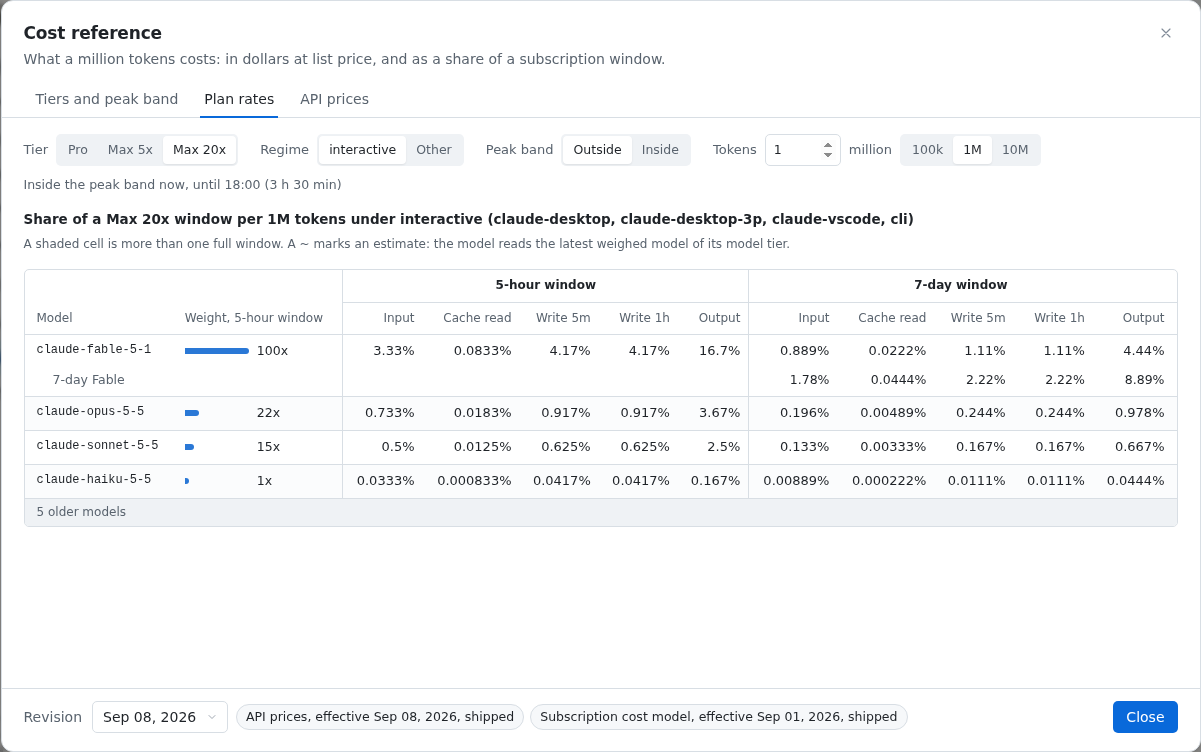
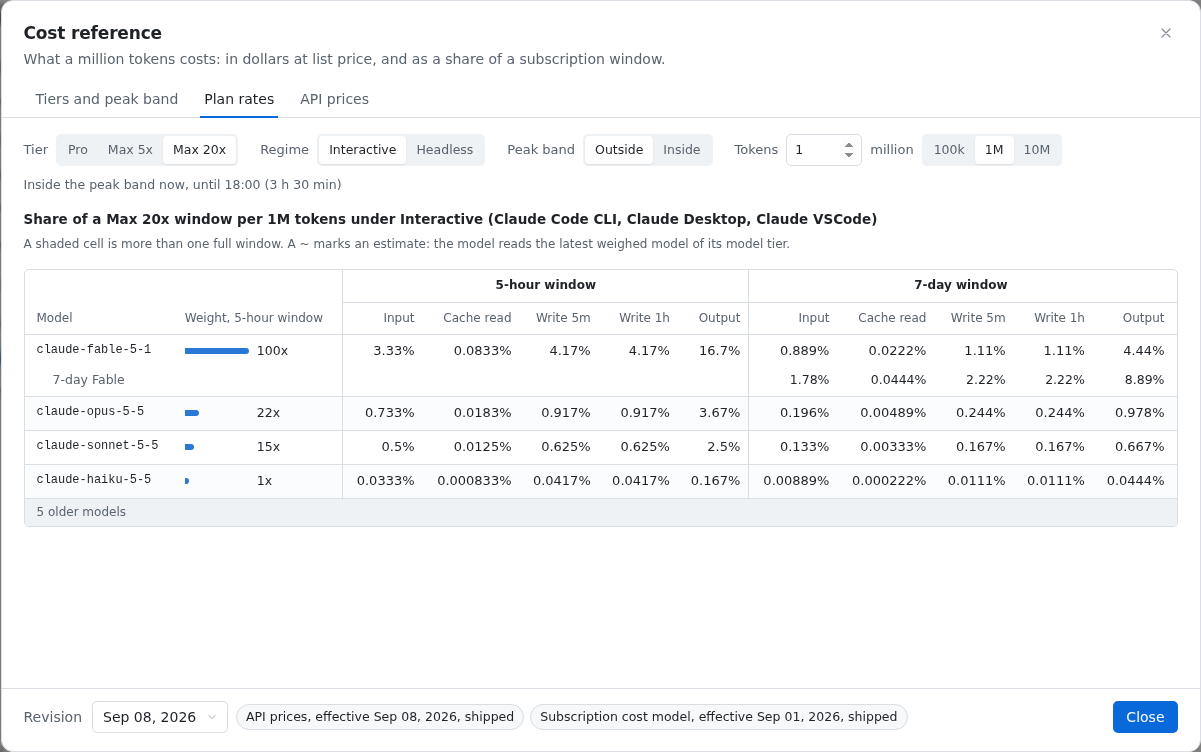
Name the cost reference's regimes by the clients they price
The console maps the cost model's regime keys and entrypoint tokens
to headline words and client names, and a key or token the map lacks
reads raw. Windows by tier draws the Interactive regime's rows first
and the base rows under a Headless headline, the Peak band card says
which traffic the band applies to, and Plan rates' Regime control and
caption read the same words.

The smoke pins the shipped words where it pinned the raw key, and the
two week subtitles on the test tables pin the raw-key fallback. The
Plan rates screenshots are retaken.

diff --git a/web/src/components/costs/WindowsByTier.tsx b/web/src/components/costs/WindowsByTier.tsx
@@ -1,7 +1,7 @@
 import { useState } from 'react';
 import type { SubscriptionCosts } from '@/api/types';
 import { Card, Segmented } from '@/components/ui/primitives';
-import { anchorTier, fullWindowsAWeek, regimeNames, smallestTier, tierCapacity, withRegime, type CostWindow } from '@/lib/costs';
+import { anchorTier, fullWindowsAWeek, regimeNames, regimeTitle, regimeWord, smallestTier, tierCapacity, withRegime, type CostWindow } from '@/lib/costs';
 import { fmtInt, fmtShare } from '@/lib/format';
 import { planLabel } from '@/lib/quota';
 
@@ -33,8 +33,8 @@ export function BandSwitch({ inside, onChange, unreachable = null }: { inside: b
   );
 }
 
-/** Each sized tier's windows against the smallest tier's, and its week counted in full 5-hour windows, then every
- *  tier each regime names under a row naming it and its entrypoints. */
+/** Each regime's tiers first under a row naming it and the clients it prices, then every sized tier's windows against
+ *  the smallest tier's under the Headless row, each tier's week counted in full 5-hour windows. */
 export function WindowsByTier({ costs }: { costs: SubscriptionCosts }) {
   const [inside, setInside] = useState(false);
   const tiers = Object.keys(costs.capacity).filter((tier) => WINDOWS.some((w) => tierCapacity(costs, tier, w.key) !== null));
@@ -64,13 +64,13 @@ export function WindowsByTier({ costs }: { costs: SubscriptionCosts }) {
     }
     const factor = inside ? model.peak.capacityFactor[w.factor] : 1;
     const held = capacity * factor;
-    const read = `${label} ${w.short} window${regime === null ? '' : ` under ${regime}`}${inside ? ' inside the peak band' : ''}: ${figure(multiple)}x a ${planLabel(base)} one, ${fmtShare(held / max)} of the largest`;
+    const read = `${label} ${w.short} window${regime === null ? '' : ` under ${regimeWord(regime)}`}${inside ? ' inside the peak band' : ''}: ${figure(multiple)}x a ${planLabel(base)} one, ${fmtShare(held / max)} of the largest`;
     const regimeAnchor = tierCapacity(model, anchor, w.key);
     const baseAnchor = tierCapacity(costs, anchor, w.key);
     const title =
       regime === null || regimeAnchor === null || baseAnchor === null
         ? read
-        : `${read}. One percent of the ${planLabel(anchor)} ${w.short} window is ${fmtInt(regimeAnchor / 100)} units for a request under ${regime} and ${fmtInt(baseAnchor / 100)} for any other.`;
+        : `${read}. One percent of the ${planLabel(anchor)} ${w.short} window is ${fmtInt(regimeAnchor / 100)} units for a request under ${regimeWord(regime)} and ${fmtInt(baseAnchor / 100)} under ${regimeWord(null)}.`;
     return (
       <td key={w.key}>
         <div className="cost-ref__barcell" title={title}>
@@ -119,17 +119,16 @@ export function WindowsByTier({ costs }: { costs: SubscriptionCosts }) {
       {weekCell(model, tier)}
     </tr>
   );
+  const groupRow = (name: string | null) => (alt: string | undefined) => (
+    <tr key={`group ${name ?? 'base'}`} className={['cost-ref__group', alt].filter(Boolean).join(' ')}>
+      <td colSpan={WINDOWS.length + 2}>{regimeTitle(costs, name)}</td>
+    </tr>
+  );
   // The stripes run on through the group rows, which count as rows of their own.
   const rows = [
+    ...regimes.flatMap(({ model, name, tiers: named }) => [groupRow(name), ...named.map((tier) => tierRow(model, name, tier))]),
+    groupRow(null),
     ...tiers.map((tier) => tierRow(costs, null, tier)),
-    ...regimes.flatMap(({ model, name, tiers: named }) => [
-      (alt: string | undefined) => (
-        <tr key={`group ${name}`} className={['cost-ref__group', alt].filter(Boolean).join(' ')}>
-          <td colSpan={WINDOWS.length + 2}>{`${name}: ${costs.regimes[name].entrypoints.join(', ')}`}</td>
-        </tr>
-      ),
-      ...named.map((tier) => tierRow(model, name, tier)),
-    ]),
   ];
   return (
     <Card title="Windows by tier" subtitle={`How much each tier's windows hold, against ${smallest === null ? 'the smallest' : planLabel(smallest)}`} actions={<BandSwitch inside={inside} onChange={setInside} />}>

diff --git a/web/src/lib/costs.ts b/web/src/lib/costs.ts
@@ -13,7 +13,8 @@ export interface Usage { cacheRead: number; cacheWrite1h: number; cacheWrite5m: 
 
 const TOKEN_TYPES: TokenType[] = ['cacheRead', 'cacheWrite1h', 'cacheWrite5m', 'input', 'output'];
 
-// A local copy rather than `lib/analytics`'s, which reads `tierRow` from this module: the two would import each other.
+// A local copy rather than `lib/analytics`'s, which reads `tierCapacity` from this module: the two would import each
+// other.
 const own = (map: object, key: string): boolean => Object.prototype.hasOwnProperty.call(map, key);
 
 export const anchorTier = (costs: SubscriptionCosts): string => costs.unit.definedBy.tier;
@@ -41,6 +42,37 @@ export const pricedWindow = (costs: SubscriptionCosts, window: string): { diviso
 
 /** The regimes' names in the file's order. */
 export const regimeNames = (costs: SubscriptionCosts): string[] => Object.keys(costs.regimes);
+
+// The map is the console's: the cost model file keeps its keys and tokens, and a key or token the map lacks reads raw,
+// so a regime the file adds later draws with no code change.
+const REGIME_WORD: Readonly<Record<string, string>> = { interactive: 'Interactive' };
+const CLIENT_NAME: Readonly<Record<string, string>> = { 'claude-desktop': 'Claude Desktop', 'claude-desktop-3p': 'Claude Desktop', 'claude-vscode': 'Claude VSCode', cli: 'Claude Code CLI' };
+const BASE_WORD = 'Headless';
+const BASE_CLIENTS = 'Claude Code CLI headless mode, the Agent SDK, Claude in Slack, etc.';
+
+/** "a", "a and b", "a, b and c". */
+const listWords = (words: string[]): string => (words.length < 2 ? words.join('') : `${words.slice(0, -1).join(', ')} and ${words[words.length - 1]}`);
+
+/** The headline word of a regime, the raw key for one the map lacks, and "Headless" for the base (null). */
+export const regimeWord = (name: string | null): string => (name === null ? BASE_WORD : own(REGIME_WORD, name) ? REGIME_WORD[name] : name);
+
+/** The clients a regime prices: its entrypoints' client names in alphabetical order, each named once, a token the map
+ *  lacks read raw. The base's fixed list for null. */
+export const regimeClients = (costs: SubscriptionCosts, name: string | null): string =>
+  name === null ? BASE_CLIENTS : [...new Set((costs.regimes[name]?.entrypoints ?? []).map((t) => (own(CLIENT_NAME, t) ? CLIENT_NAME[t] : t)))].sort().join(', ');
+
+/** "Interactive (Claude Code CLI, Claude Desktop, Claude VSCode)": a headline row's and the caption's text. */
+export const regimeTitle = (costs: SubscriptionCosts, name: string | null): string => `${regimeWord(name)} (${regimeClients(costs, name)})`;
+
+/** The Peak band card's sentence after the week word. A regime at a 5-hour factor of 1 while the base's is below 1
+ *  holds its window whole inside the band, so the band applies to the base and to the rest alone. */
+export const bandSentence = (costs: SubscriptionCosts): string => {
+  const base = costs.peak.capacityFactor.fiveHour;
+  const spared = regimeNames(costs).filter((name) => costs.regimes[name].peakCapacityFactor.fiveHour === 1 && base !== 1);
+  if (spared.length === 0) return 'A request completing inside the band spends more of its 5-hour window.';
+  const applies = [BASE_WORD, ...regimeNames(costs).filter((name) => !spared.includes(name)).map(regimeWord)];
+  return `The band applies to ${listWords(applies)} traffic only: a request completing inside it spends more of its 5-hour window. ${listWords(spared.map(regimeWord))} sessions hold the full window at every hour.`;
+};
 
 /** The regime listing the entrypoint, null for null or an entrypoint no regime lists. */
 export const regimeOf = (costs: SubscriptionCosts, entrypoint: string | null): string | null =>

diff --git a/web/src/components/costs/PlanRates.tsx b/web/src/components/costs/PlanRates.tsx
@@ -1,7 +1,7 @@
 import { useState } from 'react';
 import type { ModelPrice, SubscriptionCosts } from '@/api/types';
 import { Segmented } from '@/components/ui/primitives';
-import { anchorTier, bandNow, latestWeighted, modelTierOf, modelWeeks, regimeNames, shareIn, tierCapacity, tierGroups, unreachableBand, weightedWindows, weightOf, weightOrFallback, withRegime, type CostWindow, type TokenType, type Usage } from '@/lib/costs';
+import { anchorTier, bandNow, latestWeighted, modelTierOf, modelWeeks, regimeNames, regimeTitle, regimeWord, shareIn, tierCapacity, tierGroups, unreachableBand, weightedWindows, weightOf, weightOrFallback, withRegime, type CostWindow, type TokenType, type Usage } from '@/lib/costs';
 import { ESTIMATED_TITLE, fmtShare, undatedModel, upperFirst, withEstimate } from '@/lib/format';
 import { planLabel } from '@/lib/quota';
 import { nowLine } from './PeakBand';
@@ -51,7 +51,7 @@ export function PlanRates({ costs, now, olderOpen, onToggleOlder, prices }: { co
   const [tier, setTier] = useState(() => anchorTier(costs));
   const regimes = regimeNames(costs);
   // The interactive regime first where the model names it, since the interactive client is the traffic an operator
-  // runs. '' is Other, the base regime.
+  // runs. '' is the base, drawn as Headless.
   const [regime, setRegime] = useState(() => (regimes.includes('interactive') ? 'interactive' : ''));
   // A revision without the chosen regime reads the base, so the control and the caption follow it.
   const shownRegime = regimes.includes(regime) ? regime : '';
@@ -200,7 +200,7 @@ export function PlanRates({ costs, now, olderOpen, onToggleOlder, prices }: { co
         {regimes.length > 0 && (
           <span className="cost-ref__control">
             <span>Regime</span>
-            <Segmented ariaLabel="Regime" value={shownRegime} onChange={setRegime} options={[...regimes.map((r) => ({ label: r, value: r })), { label: 'Other', value: '' }]} />
+            <Segmented ariaLabel="Regime" value={shownRegime} onChange={setRegime} options={[...regimes.map((r) => ({ label: regimeWord(r), value: r })), { label: regimeWord(null), value: '' }]} />
           </span>
         )}
         <BandSwitch inside={chosen} onChange={setInside} unreachable={unreachable} />
@@ -234,7 +234,7 @@ export function PlanRates({ costs, now, olderOpen, onToggleOlder, prices }: { co
       </div>
       <div className="cost-ref__caption">
         <b>
-          Share of a {tierName} window per {fmtTokens(tokens)} tokens{shownRegime ? ` under ${shownRegime} (${costs.regimes[shownRegime].entrypoints.join(', ')})` : ''}
+          Share of a {tierName} window per {fmtTokens(tokens)} tokens under {regimeTitle(costs, shownRegime || null)}
           {chosen ? ', a request completing inside the peak band' : ''}
         </b>
         <span className="muted">A shaded cell is more than one full window. A ~ marks an estimate: the model reads the latest weighed model of its model tier.</span>

diff --git a/web/src/components/costs/PeakBand.tsx b/web/src/components/costs/PeakBand.tsx
@@ -2,7 +2,7 @@ import { Fragment, useMemo } from 'react';
 import type { SubscriptionCosts } from '@/api/types';
 import { useFormatVersion } from '@/app/settings';
 import { Card } from '@/components/ui/primitives';
-import { bandCaption, bandNow, bandWeek, nextLocalChange, regimeNames, zoneCity } from '@/lib/costs';
+import { bandCaption, bandNow, bandSentence, bandWeek, nextLocalChange, regimeNames, regimeWord, zoneCity } from '@/lib/costs';
 import { fmtShortTime, getTimeFormat } from '@/lib/format';
 
 /** The browser's zone, the one every time the console shows reads in. */
@@ -74,17 +74,16 @@ export function PeakBand({ costs, now }: { costs: SubscriptionCosts; now: number
   const factors = [
     ...FACTOR_WINDOWS.map(({ key, label }) => ({ factor: costs.peak.capacityFactor[key], label })),
     ...regimeNames(costs).flatMap((name) =>
-      FACTOR_WINDOWS.filter(({ key }) => costs.regimes[name].peakCapacityFactor[key] !== costs.peak.capacityFactor[key]).map(({ key, label }) => ({ factor: costs.regimes[name].peakCapacityFactor[key], label: `${label}, ${name}` })),
+      FACTOR_WINDOWS.filter(({ key }) => costs.regimes[name].peakCapacityFactor[key] !== costs.peak.capacityFactor[key]).map(({ key, label }) => ({ factor: costs.regimes[name].peakCapacityFactor[key], label: `${label}, ${regimeWord(name)}` })),
     ),
   ];
-  const holdsWhole = regimeNames(costs).some((name) => costs.regimes[name].peakCapacityFactor.fiveHour === 1 && fiveHour !== 1);
   const state = bandNow(costs, now);
   // A zone this browser cannot read gives no hours here, so the card draws no grid, no swatch and no change.
   const unresolved = 'unresolved' in state;
   return (
     <Card
       title="Peak band"
-      subtitle={`${week.some((day) => day.today) ? 'This week.' : 'Next week.'} A request completing inside the band spends more of its 5-hour window${holdsWhole ? ', except under a regime that holds 100% inside it' : ''}.`}
+      subtitle={`${week.some((day) => day.today) ? 'This week.' : 'Next week.'} ${bandSentence(costs)}`}
     >
       <div className="cost-ref__band-side">
         <div>

diff --git a/web/smoke/entry.tsx b/web/smoke/entry.tsx
@@ -40,7 +40,7 @@ export { Expert, Field, GroupedDialog, GroupLink, Input, PageLink, Pill, Switche
 export { GuardrailDialog } from '@/pages/GuardrailsPage';
 // The figures and the model form a Dashboard check computes its expectation from, so the check and the page read one
 // derivation; the cost reference's and the About card's checks read theirs the same way.
-export { anchorTier, bandFactor, bandRuns, fullWindowsAWeek, inBand, nextLocalChange, ratesOf, regimeNames, revisionAt, shareOf, smallestTier, tierCapacity, tierGroups, tierOrder, weightOf, weightOrFallback, windowMultiple, withRegime } from '@/lib/costs';
+export { anchorTier, bandFactor, bandRuns, bandSentence, fullWindowsAWeek, inBand, nextLocalChange, ratesOf, regimeClients, regimeNames, regimeTitle, regimeWord, revisionAt, shareOf, smallestTier, tierCapacity, tierGroups, tierOrder, weightOf, weightOrFallback, windowMultiple, withRegime } from '@/lib/costs';
 // The Cache miss reasons, their labels and short words in the page's order, so the filter and Analytics table checks
 // read the words the pages draw.
 export { CACHE_MISS_LABEL, CACHE_MISS_REASONS, CACHE_MISS_SHORT, missLabel, missShort } from '@/lib/cache';

diff --git a/web/e2e/README.md b/web/e2e/README.md
@@ -288,35 +288,38 @@ row's detail and the Routing log's open panel on their parent's tone, the open r
 Requests row on `--surface-2` under the pointer and on `--accent-soft` once selected on every cell, and the pool
 dialog's form tables plain), the scroll lock behind a modal dialog (in the mock pass, on the Pools page in a browser
 that shows scrollbars: a wheel over the page moves it, a wheel over the open dialog's backdrop leaves the page's scroll
-and its content box where they stood, and the close returns the page to the scroll it had), the cost reference, the
-session table's fit (inside the card at 1280 by 800 and 1440 by 900 with a slowed session's speed chip inside its
-Session cell under the id, and at 375 by 800 scrolling inside its wrap with Session at its 74 px floor and the page as
-wide as the window) and its columns (each fit column as wide as its content, the Session column the fill), the session
-id's width, the session row menu, the agent lines (at 1280 by 800 and 1440 by 900: the head's, main's and the longest
-subagent id's cells on one left edge per column within 1 px on the companion session that holds that id, every id whole
-on one line and every Account cell with its speed chip inside its box, each state badge inside its grid's scroll width
-at 1280 px and inside its visible box at 1440 px, where no grid scrolls, the widest grid's scroll and client widths
-recorded, the expanded table inside its wrap at both widths, the wrap's scroll and client widths recorded, and the first
-text line of the plain session's Model, Context and Effort cells on its session id's line, its top and its height), the
-Sessions bar's sort control and its order (on loads of its own that end on the bare view: the Sort button in the height,
-top edge, type size and weight of the Columns control beside it, reading "Sort: Created" on the bare address and "Sort:
-Last activity" under `?sort=activity`, the first five rows' session ids recorded under each), the fork badge's face
-(under the session id, in the row's badge face), the fork badges (inside their cell and whole), the session row's
-chevron (14 px square at the icon's 1.75 stroke), the Sessions tiles in error (mock pass, on loads of its own under the
-mock's sessions failure switch: the Sessions and Agents tiles a dash over "could not load" titled with the read's
-message, in the box, the value's line and the note's line of the Retained tile beside them, which keeps its figure, and
-the notice under the tiles naming the sessions), the released session's line and the Agents tile's hover, their words
-against the detail's type (mock pass, on a load of its own under the finished filter once the session list's shot is
-taken), the fork link, which is followed once the session list's shot is taken, the copy fallback (Copied on the
-Settings snippet with the clipboard API removed, on the Settings view's own load, and on a Key created dialog's secret
-in the mock pass, on a load of its own), the login screen's Stay logged in row (on both logins, the light theme's and
-the dark one's after the Log out: the secret field's, the row's, its box's, its label's and its hint's edges inside the
-card recorded, asserting nothing)). A check that opens an editor, a dialog or a row closes it again before the view's
-shot, and one that turns a column on turns it off again. The recent requests' table is fitted in the router pass and
-recorded in the mock pass, whose story's subscription rows read their 5-hour equivalent in the Cost cell, wider than the
-card leaves at 1280 by 800, so the table scrolls inside its wrap there, and its width under Window shares, where the
-cell keeps its two-line shares, is recorded beside it. The script exits non-zero with the list of failures when any of
-that does not hold.
+and its content box where they stood, and the close returns the page to the scroll it had), the cost reference, its
+headline words (mock pass, at 1280 by 800: the Windows by tier group rows reading the Interactive title, then the
+Headless title, the first one's cell in the type size of the table's first head and heavier, both weights recorded, the
+Peak band card's subtitle reading the shipped band sentence after "This week." and Plan rates' pressed Regime option
+reading Interactive, the caption recorded), the session table's fit (inside the card at 1280 by 800 and 1440 by 900 with
+a slowed session's speed chip inside its Session cell under the id, and at 375 by 800 scrolling inside its wrap with
+Session at its 74 px floor and the page as wide as the window) and its columns (each fit column as wide as its content,
+the Session column the fill), the session id's width, the session row menu, the agent lines (at 1280 by 800 and 1440 by
+900: the head's, main's and the longest subagent id's cells on one left edge per column within 1 px on the companion
+session that holds that id, every id whole on one line and every Account cell with its speed chip inside its box, each
+state badge inside its grid's scroll width at 1280 px and inside its visible box at 1440 px, where no grid scrolls, the
+widest grid's scroll and client widths recorded, the expanded table inside its wrap at both widths, the wrap's scroll
+and client widths recorded, and the first text line of the plain session's Model, Context and Effort cells on its
+session id's line, its top and its height), the Sessions bar's sort control and its order (on loads of its own that end
+on the bare view: the Sort button in the height, top edge, type size and weight of the Columns control beside it,
+reading "Sort: Created" on the bare address and "Sort: Last activity" under `?sort=activity`, the first five rows'
+session ids recorded under each), the fork badge's face (under the session id, in the row's badge face), the fork badges
+(inside their cell and whole), the session row's chevron (14 px square at the icon's 1.75 stroke), the Sessions tiles in
+error (mock pass, on loads of its own under the mock's sessions failure switch: the Sessions and Agents tiles a dash
+over "could not load" titled with the read's message, in the box, the value's line and the note's line of the Retained
+tile beside them, which keeps its figure, and the notice under the tiles naming the sessions), the released session's
+line and the Agents tile's hover, their words against the detail's type (mock pass, on a load of its own under the
+finished filter once the session list's shot is taken), the fork link, which is followed once the session list's shot is
+taken, the copy fallback (Copied on the Settings snippet with the clipboard API removed, on the Settings view's own
+load, and on a Key created dialog's secret in the mock pass, on a load of its own), the login screen's Stay logged in
+row (on both logins, the light theme's and the dark one's after the Log out: the secret field's, the row's, its box's,
+its label's and its hint's edges inside the card recorded, asserting nothing)). A check that opens an editor, a dialog
+or a row closes it again before the view's shot, and one that turns a column on turns it off again. The recent requests'
+table is fitted in the router pass and recorded in the mock pass, whose story's subscription rows read their 5-hour
+equivalent in the Cost cell, wider than the card leaves at 1280 by 800, so the table scrolls inside its wrap there, and
+its width under Window shares, where the cell keeps its two-line shares, is recorded beside it. The script exits
+non-zero with the list of failures when any of that does not hold.
 
 The screenshot directory has to lie outside the repository, which the script enforces against every worktree `git
 worktree list` reports, and against the tree holding the nearest `Cargo.toml` when git cannot answer.

diff --git a/docs/site/console.md b/docs/site/console.md
@@ -1114,23 +1114,28 @@ factor. Plan rates draws the share of a tier's 5-hour and 7-day window that a to
 model, for a request completing outside or inside the band, with a tier chooser (the anchor tier Max 20x first), the
 band control and a token field in millions with quick picks for 100k, 1M and 10M, a weight column per model, a Fable
 week row under a Fable model's 7-day group, and a warning tint on a cell past a full window. Under a regime of the cost
-model ([Plan meter](statistics.md#plan-meter)), Windows by tier adds a group row naming the regime and its entrypoints
-and a row per tier the regime names, the multiples against the base regime's smallest tier, the Peak band card a factor
-row per regime that holds a window differently inside the band, and Plan rates a Regime control beside Tier offering
-each regime and `Other` for the base rows, opening on `interactive` where the model names it, with the regime's
-entrypoints in the caption. A model the cost model does not weigh, on a model tier with a weighed model, reads that
-tier's latest weighed model, each of its cells marked with a `~` and its weight cell reading `estimated, as {model}`,
-and the caption adds "A ~ marks an estimate: the model reads the latest weighed model of its model tier." A model of no
-model tier, or of one with no weighed model, keeps its dashes and reads "not weighed". API prices draws the dollar list
-prices per million tokens, input, cache read, cache write 5m, cache write 1h and output, with a fast-mode row under each
-model that serves fast mode and a row under each model priced by prompt length, under the caption "USD per million
-tokens at list price" and its note "An API-key account pays these. A subscription account pays them in overage and for
-fast-mode answers." Both tables show one row per model tier, its newest model, in the cost model's `tier_order` with
-`model_tier` naming each model's tier and a model of no tier last, and fold the older models under one row at the
-table's foot that names their count, "1 older model" or `{n} older models`, and expands to them in the same order. The
-fold is shared by both tables and starts closed at each opening. The price rows, the weights and how a probe is priced
-are on [Pricing](statistics.md#pricing), which lists the shipped revision in force, and the dialog shows an earlier
-entry under the Revision select.
+model ([Plan meter](statistics.md#plan-meter)), Windows by tier draws the regime's part first, a headline row naming the
+regime and the clients it prices, "Interactive (Claude Code CLI, Claude Desktop, Claude VSCode)" for the shipped model,
+then a row per tier the regime names, and the base rows under their own headline, "Headless (Claude Code CLI headless
+mode, the Agent SDK, Claude in Slack, etc.)", the multiples against the base's smallest tier. The Peak band card's
+subtitle names the traffic the band applies to and the sessions that hold the full window at every hour ("The band
+applies to Headless traffic only: a request completing inside it spends more of its 5-hour window. Interactive sessions
+hold the full window at every hour."), and its factor rows add one per regime that holds a window differently inside the
+band, named by its headline word. Plan rates adds a Regime control beside Tier offering each regime's headline word and
+Headless for the base rows, opening on Interactive where the model names it, the caption naming the shown headline and
+its clients. A model the cost model does not weigh, on a model tier with a weighed model, reads that tier's latest
+weighed model, each of its cells marked with a `~` and its weight cell reading `estimated, as {model}`, and the caption
+adds "A ~ marks an estimate: the model reads the latest weighed model of its model tier." A model of no model tier, or
+of one with no weighed model, keeps its dashes and reads "not weighed". API prices draws the dollar list prices per
+million tokens, input, cache read, cache write 5m, cache write 1h and output, with a fast-mode row under each model that
+serves fast mode and a row under each model priced by prompt length, under the caption "USD per million tokens at list
+price" and its note "An API-key account pays these. A subscription account pays them in overage and for fast-mode
+answers." Both tables show one row per model tier, its newest model, in the cost model's `tier_order` with `model_tier`
+naming each model's tier and a model of no tier last, and fold the older models under one row at the table's foot that
+names their count, "1 older model" or `{n} older models`, and expands to them in the same order. The fold is shared by
+both tables and starts closed at each opening. The price rows, the weights and how a probe is priced are on
+[Pricing](statistics.md#pricing), which lists the shipped revision in force, and the dialog shows an earlier entry under
+the Revision select.
 
 ## Settings
 

diff --git a/docs/site/changelog.md b/docs/site/changelog.md
@@ -304,7 +304,10 @@ session, main's among them, with Effort, Context and a warm or cold state on a p
 line's agent to the request log and its account to the Accounts view, and lists the sessions the router lists within its
 non-companion timeout ([Sessions](console.md#sessions)). The Sessions view reads the context in tokens from main's
 conversation pin on every row and from each line's own pin, and the Requests column shows through the Columns control to
-make room ([Sessions](console.md#sessions)). The Settings page's About card lists the session expiry and the
+make room ([Sessions](console.md#sessions)). The cost reference's Windows by tier draws the Interactive regime's rows
+first under a headline naming its clients and the base rows under Headless, its Peak band card says which traffic the
+band applies to, and Plan rates' Regime control reads Interactive and Headless ([The cost
+reference](console.md#the-cost-reference)). The Settings page's About card lists the session expiry and the
 non-companion timeout, the two keys of the `sessions` block, each as a duration with its seconds beside it and its hover
 naming the key ([Settings](console.md#settings)). The Settings page's About card names the bootstrap's body capture
 limit beside its two retention lines ([Settings](console.md#settings)). A decision card's cache-map row folds a record
